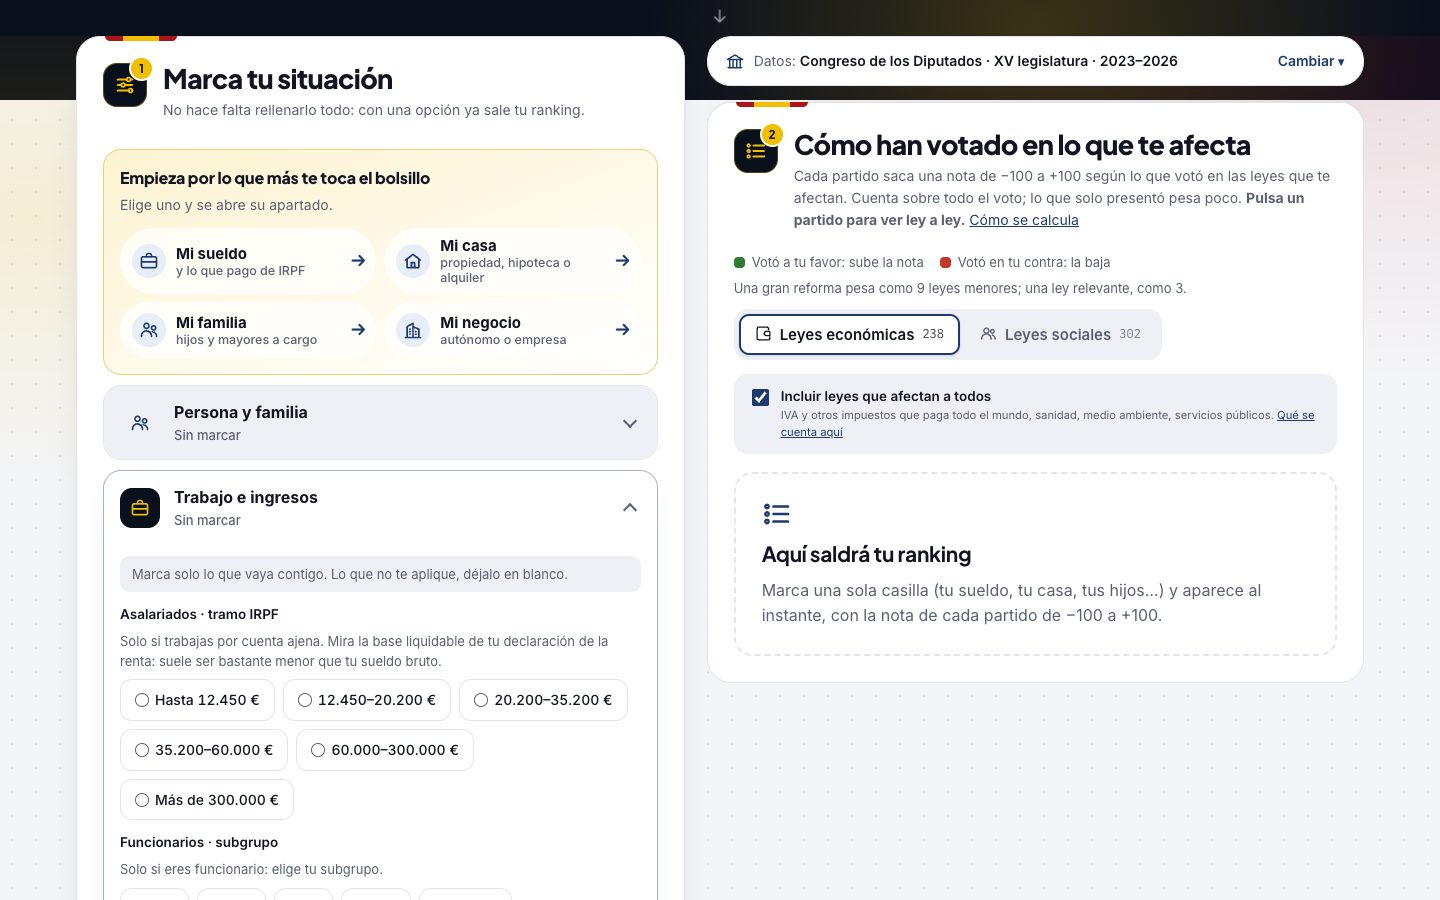
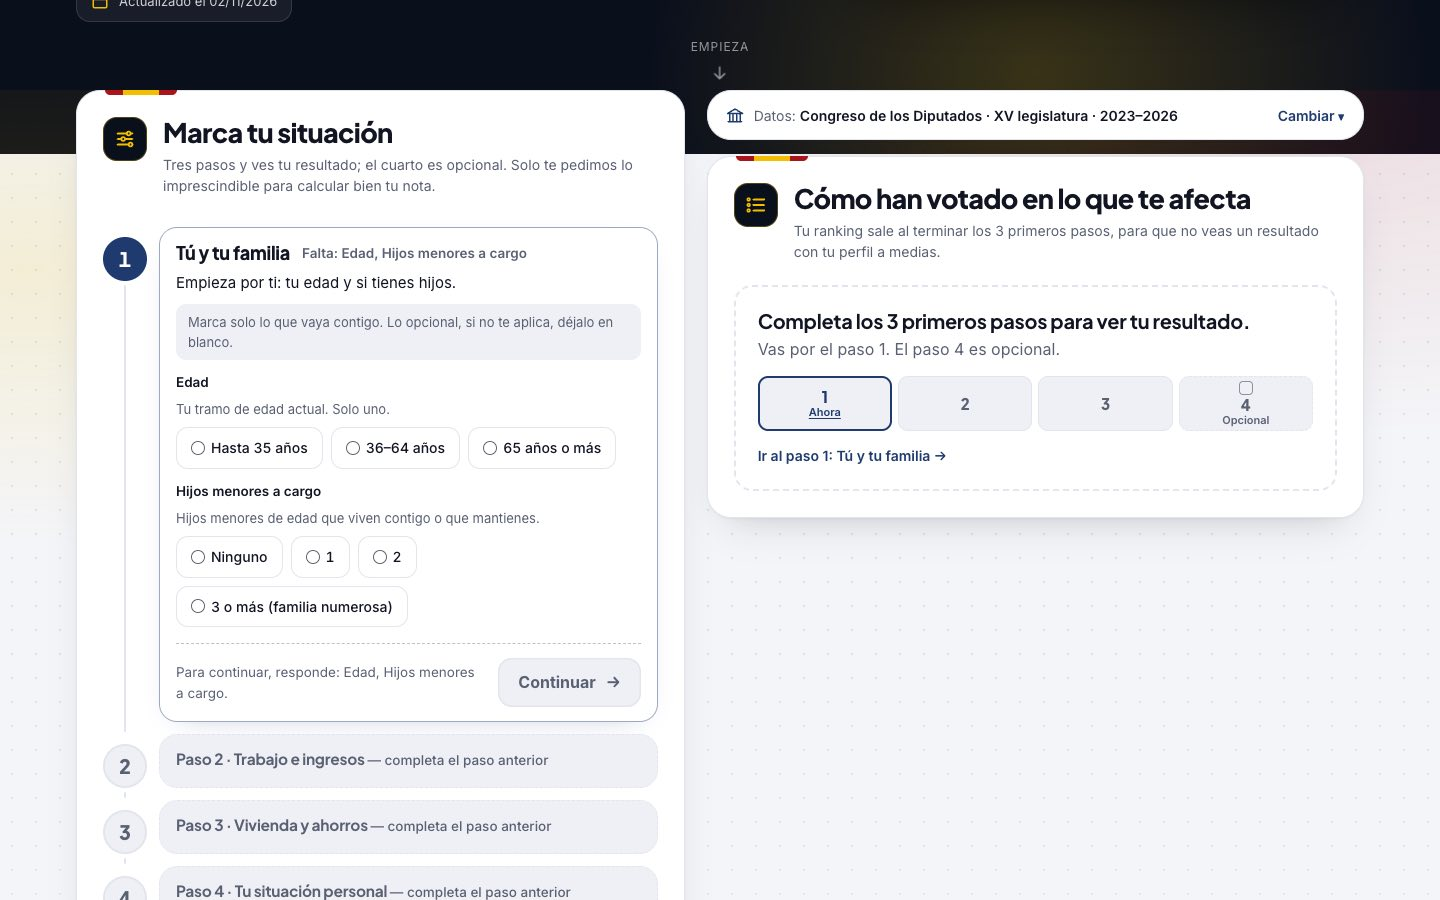
docs(readme): README y capturas al día con la v8
Cómo funciona (4 pasos, provincia, iniciativas del Gobierno, veredicto),
fórmula corregida con los 9 de prudencia, estado de la rúbrica, prueba de
sesgo, parámetros del enlace, quién hace esto y licencia; capturas nuevas.

diff --git a/README.md b/README.md
@@ -1,15 +1,17 @@
 <h1 align="center">¿A quién te conviene votar?</h1>
 
 <p align="center"><b>Lo que votó cada partido en las leyes que tocan tu sueldo, tu casa, tu negocio y tu familia.</b><br>
-Leyes y votos reales, de fuentes oficiales · Cálculo trazable ley a ley · Sin recoger ningún dato tuyo</p>
+Leyes y votos reales, de fuentes oficiales · Cálculo trazable ley a ley · Tus respuestas se quedan en tu navegador</p>
 
 <p align="center">
   <a href="https://www.votarbien.info/"><b>Abrir la web →</b></a>
+  &nbsp;·&nbsp; <a href="#cómo-funciona">Cómo funciona</a>
   &nbsp;·&nbsp; <a href="#datos-reales-y-trazables">Trazabilidad</a>
   &nbsp;·&nbsp; <a href="#privacidad">Privacidad</a>
   &nbsp;·&nbsp; <a href="#cómo-se-calcula">Cómo se calcula</a>
   &nbsp;·&nbsp; <a href="#reconstruir-los-datos">Reconstruir los datos</a>
-  &nbsp;·&nbsp; <a href="#fuentes-y-licencia">Fuentes</a>
+  &nbsp;·&nbsp; <a href="#quién-hace-esto">Quién hace esto</a>
+  &nbsp;·&nbsp; <a href="#fuentes-y-licencia">Fuentes y licencia</a>
 </p>
 
 <p align="center">
@@ -21,8 +23,8 @@ Leyes y votos reales, de fuentes oficiales · Cálculo trazable ley a ley · Sin
 
 <table>
   <tr>
-    <td width="72%"><img src=".github/captura-escritorio.jpg" alt="Portada de la web en escritorio: la pregunta ¿A quién te conviene votar? sobre la bandera de España ondeando"></td>
-    <td width="28%"><img src=".github/captura-movil.jpg" alt="Portada de la web en el móvil"></td>
+    <td width="72%"><img src=".github/captura-escritorio.jpg" alt="La web en escritorio: el perfil completado en los cuatro pasos y, al lado, el ranking de partidos filtrado por la provincia de Zaragoza"></td>
+    <td width="28%"><img src=".github/captura-movil.jpg" alt="El ranking en el móvil, con el filtro por provincia y la nota de cada partido"></td>
   </tr>
 </table>
 
@@ -32,14 +34,27 @@ Leyes y votos reales, de fuentes oficiales · Cálculo trazable ley a ley · Sin
 
 Tú madrugas, trabajas y pagas tus impuestos. **Ellos votan leyes.** Esta web te enseña qué votó cada partido cuando se decidía tu sueldo, tu casa, tu negocio y tu familia: no lo que prometió en campaña, sino lo que votó.
 
-| | | |
-|:---:|:---:|:---:|
-| **1 · Marca tu situación** | **2 · Mira quién votó a tu favor** | **3 · Compruébalo tú mismo** |
-| Sueldo, impuestos, vivienda, familia, negocio. Un minuto, sin registro: lo que marcas no sale de tu navegador. | Una nota de −100 a +100 por partido, según cómo votó las leyes que te afectan. | Cada ley, su voto y por qué te afecta, con enlace al registro oficial. |
+> **Tu voto es tuyo.** Aquí nadie te dice a quién votar: te enseñamos lo que votaron. Es un simulador informativo, no una recomendación de voto ni una encuesta.
 
-<p align="center"><img src=".github/captura-perfil.jpg" alt="El perfil: accesos rápidos por sueldo, casa, familia y negocio, y ayuda en cada categoría" width="88%"></p>
+## Cómo funciona
 
-> **Tu voto es tuyo.** Aquí nadie te dice a quién votar: te enseñamos lo que votaron.
+Un asistente de cuatro pasos. **Tu ranking sale al terminar el paso 3**, para que no veas un resultado con el perfil a medias; el 4 es opcional y solo afina.
+
+| Paso | Qué te pregunta |
+|:---:|---|
+| **1 · Tú y tu familia** | Solo tu edad y si tienes hijos menores a cargo. |
+| **2 · Trabajo e ingresos** | De qué vives. Según lo que marques, te pregunta tu tramo de IRPF (con «No lo sé»), tu subgrupo de funcionario, tu empresa y su sector, tu pensión o lo que cobras en paro. |
+| **3 · Vivienda y ahorros** | Dónde vives, cuántas viviendas tienes, si tienes hipoteca y tus ahorros sin contar tu casa. |
+| **4 · Tu situación personal** *(opcional)* | Sexo, estado civil, cuidados, orientación, salud, discapacidad, origen y otras situaciones. Nada de este paso va en los enlaces que compartes. |
+
+<p align="center"><img src=".github/captura-perfil.jpg" alt="El asistente del perfil: el paso 1 abierto, solo con la edad y los hijos, y al lado el aviso de que el resultado sale al completar los tres primeros pasos" width="88%"></p>
+
+Con el perfil hecho:
+
+- **El ranking.** Cada partido saca una nota de −100 a +100 según cómo votó las leyes que afectan a tu perfil, con un **veredicto en palabras** que habla de sus votos, no de sus efectos: «Mayoría clara de votos a tu favor», «Más votos a tu favor que en contra», «Votos repartidos», «Más votos en tu contra que a favor» o «Mayoría clara de votos en tu contra». Leyes económicas y sociales van en pestañas separadas.
+- **¿En qué provincia votas?** Junto al ranking eliges tu provincia y ves solo los partidos a los que puedes votar ahí: los de ámbito estatal y los que se presentan en tu provincia o tu comunidad. El filtro solo oculta filas: **no cambia la nota de nadie**. Dónde se presenta cada partido es una asignación nuestra, pública en [`data/ambito_partidos.json`](data/ambito_partidos.json). En las europeas no se aplica, porque España es una circunscripción única.
+- **El efecto Gobierno.** Los partidos del Gobierno suelen votar a favor de sus propios reales decretos-ley. En la ficha de cada partido esas leyes van marcadas como **«Iniciativa del Gobierno»**, y en «Ajustar el ranking» la casilla **«Excluir los reales decretos-ley»** (desactivada por defecto) los saca de todas las notas.
+- **Ley a ley.** Pulsa un partido y ves cada ley que te afecta, cómo la votó y cuánto suma o resta, con enlace a su ficha oficial.
 
 ## Datos reales y trazables
 
@@ -58,7 +73,7 @@ Cada número de la web se puede seguir hasta la ley y la votación de las que sa
 
 - **Alcance:** es una gran reforma, así que pesa ×9.
 - **Fuerza:** la votación clave fue una enmienda a la totalidad, que vale 0,5.
-- **Aportación:** suma +4,5 a favor de ese partido en tu nota.
+- **Aportación:** 9 × 0,5 = 4,5 puntos a favor en el cálculo de su nota.
 
 Esa misma línea aparece en la ficha del partido, junto a todas las demás, y la suma de todas da su nota.
 
@@ -98,8 +113,34 @@ Cada fuente y legislatura es un dataset independiente. Los partidos cambian entr
 - **Votación clave por iniciativa**, por este orden de prioridad: votación final (de conjunto o del dictamen) > convalidación del real decreto-ley > toma en consideración > enmienda a la totalidad. En la enmienda a la totalidad, votar sí equivale a oponerse a la ley, y se invierte.
 - **Voto de un partido** = voto mayoritario de sus diputados presentes. Los partidos que comparten grupo, como Podemos, BNG, CC, UPN o Compromís dentro del Mixto, se separan por voto nominal. Los no adscritos no se cuentan.
 - **Impactos.** Cada iniciativa se clasifica como económica o social y se marca a qué colectivos beneficia (+1) o perjudica (−1), según [`RUBRICA.md`](data/clasificacion/RUBRICA.md). La clasificación es asistida por IA e **interpretativa**: conviene revisar las leyes de mayor relevancia.
-- **Nota del ranking.** (a favor − en contra) ÷ total × 100. Votar el texto final pesa 1, una toma en consideración 0,5 y lo que solo se presentó 0,25. Una gran reforma pesa como 9 leyes menores, y una ley relevante como 3.
+- **Peso de cada voto.** Votar el texto final o la convalidación de un real decreto-ley cuenta 1; la toma en consideración o una enmienda a la totalidad, 0,5; lo que el partido solo presentó y no llegó a votar en el Pleno, 0,25. Las abstenciones no cuentan.
+- **Alcance.** Una gran reforma pesa como 9 leyes menores, y una ley relevante como 3.
+- **Nota del ranking.** (a favor − en contra) ÷ (total + 9) × 100, de −100 a +100. Los 9 puntos neutros de **prudencia** (el peso de una gran reforma) evitan que un partido con pocas leyes saque una nota extrema: con muchas leyes apenas cuentan; con pocas, acercan la nota a 0. Las leyes mixtas cuentan en el total sin sumar ni restar.
+- **Veredicto.** «Votos repartidos» entre −25 y +25 (entre −35 y +35 si el partido tiene menos de 5 leyes que te afecten); «Mayoría clara» solo con ±60 o más y al menos 8 leyes. Con menos de 3 leyes, el partido lleva la etiqueta «pocos datos».
+- **Reales decretos-ley.** Cuentan por defecto. La casilla «Excluir los reales decretos-ley» (o `rdl=0` en el enlace) los quita de todas las notas.
+- **Provincia.** Filtra qué partidos se ven y recalcula los puestos entre los que quedan, pero no toca ninguna nota.
 - **Colores.** Verde: beneficia algún rasgo de tu perfil y no perjudica ninguno. Rojo: al revés. Ámbar: ambas cosas. Gris: no te afecta.
+
+### Estado de la rúbrica
+
+La clasificación sigue la [rúbrica v3](data/clasificacion/RUBRICA.md) ([cambios respecto a la v2](data/clasificacion/RUBRICA_CAMBIOS_v3.md)). En las legislaturas ya reclasificadas, cada ley se lee **tres veces de forma independiente** y un colectivo solo cuenta si lo marcan al menos dos de las tres lecturas (`scripts/consolidar_lecturas.py`). Los lectores son modelos de IA, no personas: no sustituyen a una revisión humana.
+
+| Rúbrica | Legislaturas |
+|---|---|
+| **v3**, tres lecturas | Congreso XV, XIV, XIII, XII y XI · Parlamento Europeo 10.ª y 9.ª |
+| v2, a la espera de reclasificarse | Congreso X · Parlamento Europeo 8.ª, 7.ª y 6.ª |
+
+Las tres lecturas y lo que cambió en cada ley están en `data/clasificacion/<clave>/lectura_v3/` (por ejemplo, [`congreso_xv/lectura_v3/CAMBIOS.md`](data/clasificacion/congreso_xv/lectura_v3/CAMBIOS.md)). En la XV, ninguna de las 540 iniciativas tiene signo contrario entre lecturas, 432 coinciden en las tres y el parecido medio es de 0,90; las 108 en las que no coinciden del todo pasan a revisión humana.
+
+### Prueba de sesgo
+
+Una herramienta neutral debería dar el primer puesto a partidos distintos según el perfil. `scripts/prueba_sesgo.py` genera 2.000 perfiles aleatorios y 20 arquetipos, calcula su ranking con el mismo cálculo que la web en cada legislatura y pestaña, con y sin «Ciudadanía general», y cuenta en qué porcentaje de perfiles sale primero cada partido. El resultado completo se publica tal cual sale en [`data/analisis/SESGO.md`](data/analisis/SESGO.md). Algunas cifras:
+
+- **Congreso, XV, leyes económicas con «Ciudadanía general»:** CC sale primero en el 40,1 % de los perfiles, PNV en el 22,8 % y Compromís en el 18,8 %.
+- **Parlamento Europeo, leyes económicas:** en la 10.ª, BNG (46,0 %) con «Ciudadanía general» y PP (29,6 %) sin ella; en la 9.ª, PSOE (63,2 %) con ella y PP (45,6 %) sin ella.
+- **Legislaturas con pocas votaciones:** el resultado se concentra; en la XI, en leyes sociales, PSOE sale primero en el 100,0 % de los perfiles.
+
+*Interpretación nuestra:* los partidos bisagra, con pocas votaciones en contra, tienden a salir arriba.
 
 La metodología completa está en la propia web, en el apartado **Cómo se calcula**.
 
@@ -140,10 +181,14 @@ python3 -m http.server 8000 --directory site    # http://localhost:8000
 data/
   fuente/                       Datos de origen, uno por dataset (no se editan)
   clasificacion/
-    RUBRICA.md                  Criterios de clasificación, comunes a todas las legislaturas
+    RUBRICA.md                  Criterios de clasificación (v3), comunes a todas las legislaturas
+    RUBRICA_CAMBIOS_v3.md       Qué cambió de la v2 a la v3
     INSTRUCCIONES.md            Proceso para clasificar lotes
     <clave>/clas_*.json         Tipo, impactos por colectivo (+1/−1) y nota de cada iniciativa
     <clave>/REVISION.md         Casos dudosos pendientes de revisión
+    <clave>/lectura_v3/         Las tres lecturas independientes y CAMBIOS.md (legislaturas con la v3)
+  analisis/SESGO.md             Prueba de sesgo (generada por prueba_sesgo.py)
+  ambito_partidos.json          Dónde se presenta cada partido (filtro por provincia)
   generado/<clave>/items.json   Iniciativas normalizadas (generado; no editar)
   cache/                        Respuestas de congreso.es (ignorado por git)
 scripts/
@@ -160,6 +205,10 @@ scripts/
   preparar_lotes.py             Lotes de iniciativas sin clasificar
   integrar_clasificacion.py     Integra lotes, armoniza RDL duplicados y valida
   validar_clasificacion.py      Comprueba clas_*.json contra la rúbrica y la web
+  comparar_lecturas.py          Compara lecturas independientes de una legislatura
+  consolidar_lecturas.py        Consolida tres lecturas por mayoría (2 de 3)
+  prueba_sesgo.py               Prueba de sesgo: qué partido sale primero en miles de perfiles
+tests/                          Tests de los scripts (los ejecuta la CI antes de publicar)
 site/
   template.html                 La página: HTML/CSS/JS sin dependencias (solo Google Fonts)
   index.html                    Página final (generada)
@@ -177,17 +226,28 @@ Los enlaces se pueden compartir con un perfil ya marcado:
 | Parámetro | Qué hace | Ejemplo |
 |---|---|---|
 | `p` | Rasgos del perfil, separados por comas (la web nunca pone en el enlace los del paso 4, de situación personal) | `?p=asal3,prop1` |
+| `u` | Respuestas del asistente que no son rasgos (de qué vives, dónde vives…); la web lo añade junto a `p` | `?p=asal3&u=trAjena` |
+| `prov` | Filtra el ranking por provincia (código INE de dos cifras) | `?p=asal3&prov=50` |
 | `rdl=0` | Excluye los reales decretos-ley del cálculo (por defecto se cuentan) | `?p=asal3&rdl=0` |
 | `c=0` | Desactiva «Ciudadanía general», que viene activa | `?p=asal3&c=0` |
+| `co=0` | Desactiva las leyes de consumo, que vienen activas | `?p=asal3&co=0` |
+| `t=soc` | Abre la pestaña de leyes sociales | `?p=asal3&t=soc` |
+| `partido` | Abre la ficha de un partido | `?p=asal3&partido=PP` |
 | `ds` | Abre otra legislatura (por defecto, la más reciente) | `?ds=congreso_xiv` |
 
 ## Pendiente
 
-- [ ] **Imagen de previsualización** (Open Graph) y metaetiquetas para compartir en redes y WhatsApp.
+- [ ] **Reclasificar con la rúbrica v3** el Congreso X y el Parlamento Europeo 8.ª, 7.ª y 6.ª.
 - [ ] **Revisar las clasificaciones** de las leyes más relevantes: fiscales, vivienda, pensiones, laboral, migración.
 - [ ] **Identificar el partido** de las proposiciones del Grupo Mixto (ficha de cada iniciativa en congreso.es, campo de autores o firmantes).
 - [ ] **Convertir la clasificación en un proceso repetible** entre legislaturas.
 - [ ] **Leyes ómnibus:** leer el texto (BOE / BOCG) y clasificar medida a medida.
+
+## Quién hace esto
+
+Lo hacemos **Pablo Carcaba** y **Nacho Rodríguez**, desarrolladores profesionales. No tenemos vínculos con ningún partido político y el proyecto no tiene financiación: ni pública, ni privada, ni de partidos. Todo es público: el código, los datos y la clasificación están en este repositorio.
+
+¿Ves un error o una ley mal clasificada? [Abre un *issue*](https://github.com/pablocarcaba/vota-bien/issues). Cada ley tiene también en la web su propio enlace «¿Está mal clasificada?».
 
 ## Fuentes y licencia
 
@@ -195,3 +255,5 @@ Los enlaces se pueden compartir con un perfil ya marcado:
 - **Parlamento Europeo:** votaciones nominales de [HowTheyVote.eu](https://howtheyvote.eu) (9.ª y 10.ª, datos abiertos con atribución) y de las actas oficiales del Parlamento Europeo (6.ª a 8.ª); títulos y fechas de la [API de datos abiertos del Parlamento Europeo](https://data.europarl.europa.eu). Para la 6.ª, también [Parltrack](https://parltrack.org) (ODbL 1.0).
 
 La clasificación de impactos es propia e interpretativa. Si ves una ley mal clasificada, abre un *issue*.
+
+El código es software libre con [licencia MIT](LICENSE). Los datos de origen pertenecen a sus editores y su reutilización exige citar la fuente.
